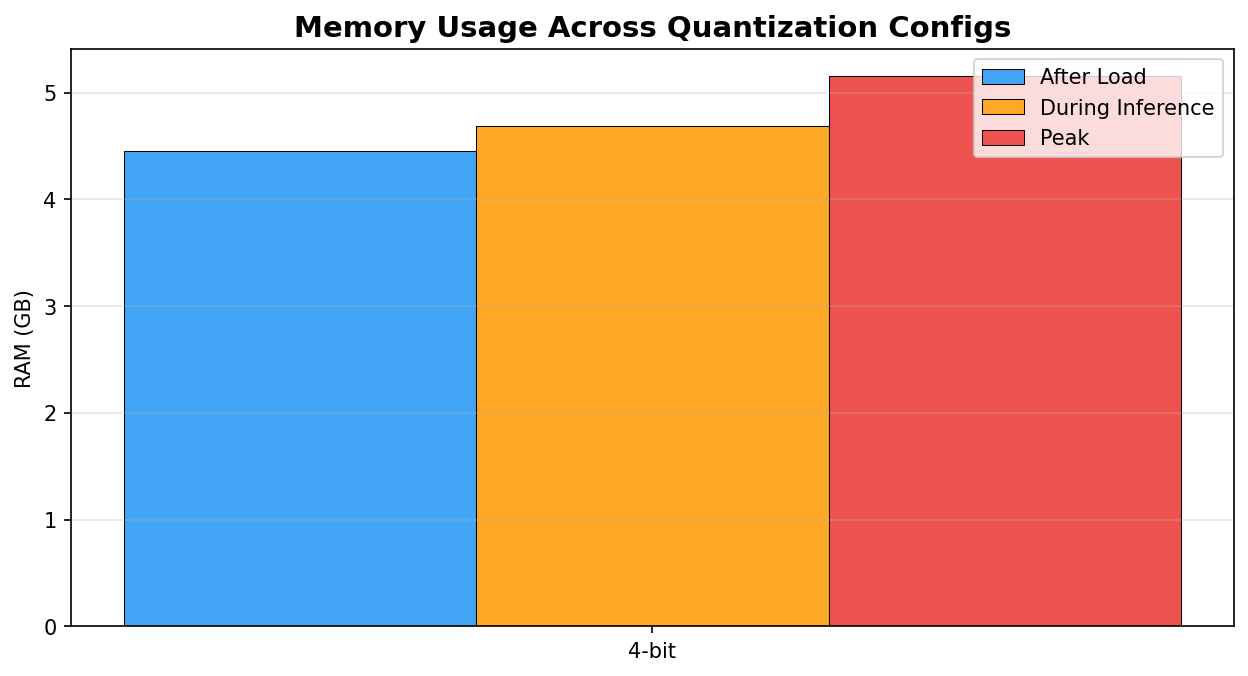
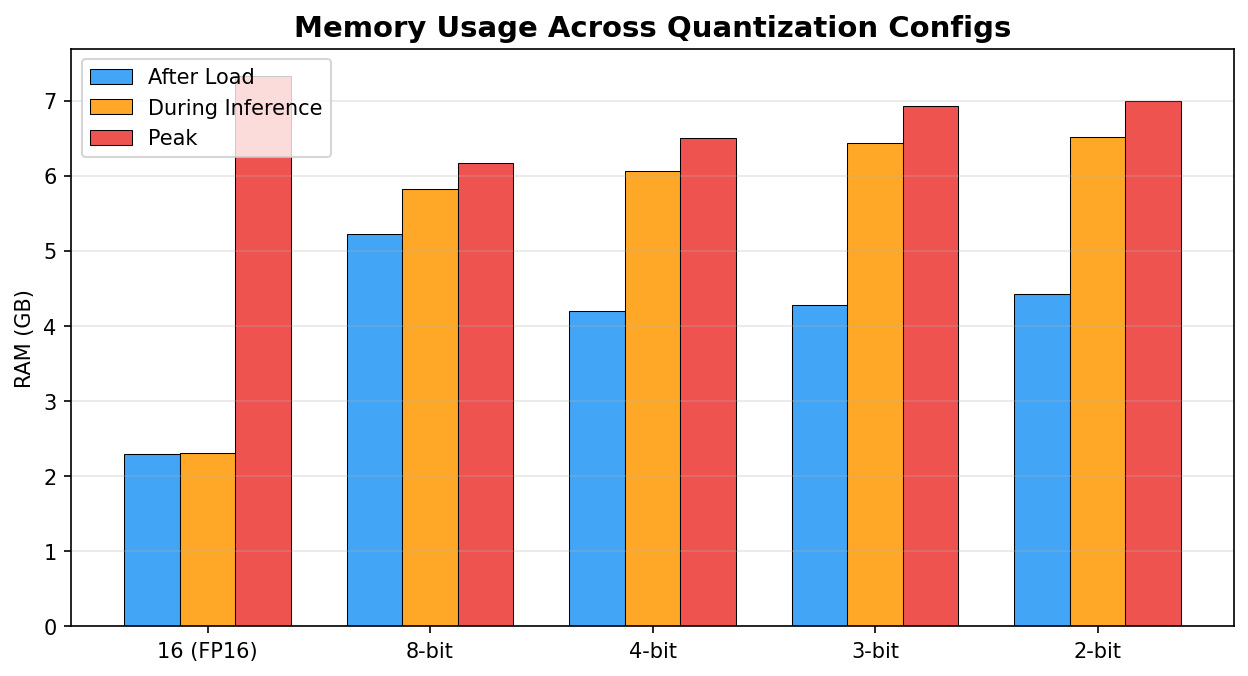
add bare-metal avx2 gemv unpack function

diff --git a/benchmarks/comprehensive_bench.py b/benchmarks/comprehensive_bench.py
@@ -19,21 +19,38 @@ import os
 import sys
 import time
 from pathlib import Path
+import psutil
 
-# Thread control BEFORE importing numpy/torch
-# Intel i7 Evo: default to 8 threads (P-cores), prefer MKL
-os.environ["OMP_NUM_THREADS"] = "8"
-os.environ["MKL_NUM_THREADS"] = "8"
-os.environ["OPENBLAS_NUM_THREADS"] = "8"
-os.environ["VECLIB_MAXIMUM_THREADS"] = "8"
-os.environ["NUMEXPR_NUM_THREADS"] = "8"
+# ---------------------------------------------------------------------------
+# Early Thread Control (must run before numpy/torch import)
+# ---------------------------------------------------------------------------
+
+_MAX_RESOURCES = "--max-resources" in sys.argv
+
+if _MAX_RESOURCES:
+    _num_threads = psutil.cpu_count(logical=True)
+else:
+    # Extract --threads if provided, otherwise default to 8
+    _num_threads = 8
+    if "--threads" in sys.argv:
+        try:
+            _idx = sys.argv.index("--threads")
+            _num_threads = int(sys.argv[_idx + 1])
+        except (ValueError, IndexError):
+            pass
+
+os.environ["OMP_NUM_THREADS"] = str(_num_threads)
+os.environ["MKL_NUM_THREADS"] = str(_num_threads)
+os.environ["OPENBLAS_NUM_THREADS"] = str(_num_threads)
+os.environ["VECLIB_MAXIMUM_THREADS"] = str(_num_threads)
+os.environ["NUMEXPR_NUM_THREADS"] = str(_num_threads)
 os.environ.setdefault("USE_TF", "0")
 os.environ.setdefault("USE_JAX", "0")
 os.environ.setdefault("TRANSFORMERS_NO_ADVISORY_WARNINGS", "1")
 
 import numpy as np
 import torch
-torch.set_num_threads(8)
+torch.set_num_threads(_num_threads)
 
 ROOT = Path(__file__).resolve().parent.parent
 sys.path.insert(0, str(ROOT))
@@ -461,9 +478,11 @@ def main():
                         help="CPU threads (default: 8 for Intel i7 Evo P-cores)")
     parser.add_argument("--sparse", action="store_true",
                         help="Enable activation-sparse GEMV (Tier 3)")
+    parser.add_argument("--max-resources", action="store_true",
+                        help="Use all available logical CPU cores and skip resource limiting")
     args = parser.parse_args()
 
-    set_thread_count(args.threads)
+    set_thread_count(_num_threads)
 
     bits_list = args.bits or [16, 8, 4, 3, 2]
 
@@ -472,7 +491,7 @@ def main():
     print("=" * 66)
     print(f"  CPU: {psutil.cpu_count(logical=False)} cores / {psutil.cpu_count()} threads")
     print(f"  RAM: {psutil.virtual_memory().total / (1024**3):.1f} GB total")
-    print(f"  Threads limited to: {args.threads}")
+    print(f"  Threads limited to: {'MAX' if args.max_resources else _num_threads}")
     print(f"  Bit-widths: {bits_list}")
     print(f"  Max tokens: {args.max_tokens}")
 